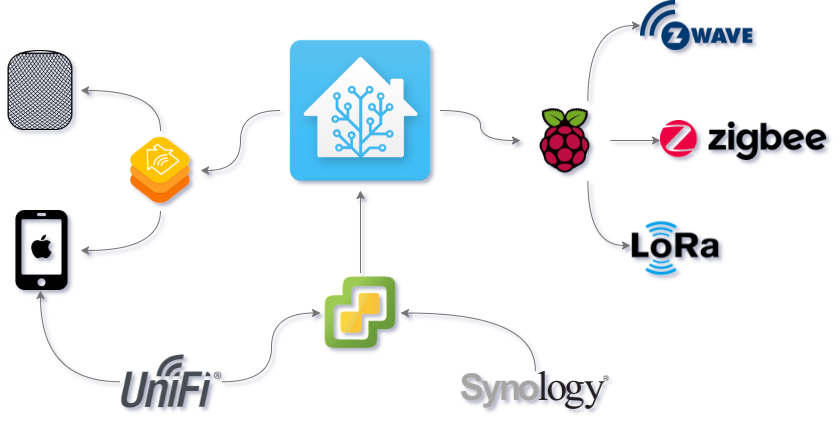
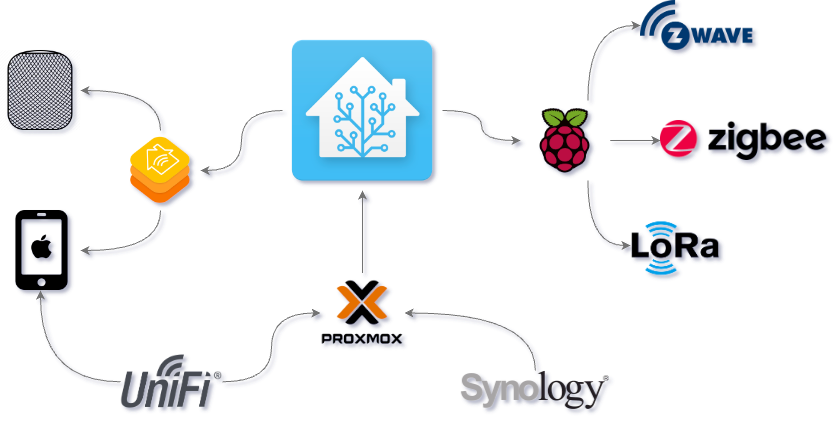
Documentation updates

diff --git a/docs/README.md b/docs/README.md
@@ -7,7 +7,6 @@
 [![GitHub Last Commit][last-commit-shield]][commits]
 
 [![GitHub Actions][actions-shield]][actions]
-[![Black Duck Security Risk][black-duck-shield]][black-duck]
 
 ![GitHub Stars][stars-shield]
 ![GitHub Watchers][watchers-shield]
@@ -39,6 +38,13 @@ This is done for multiple reasons:
 - Enable VMware to migrate the main HA VM across hosts within the cluster based upon load.
 - Place radios in a more central location with better reception.
 
+### Update 20230518
+
+This is pending a refresh. The following tasks are planned:
+
+- Migrate back to a VM. (However, I have converted all of my VMware hosts to Proxmox.)
+- Migrate radios to strategically placed Raspberry Pi's. (Host management is the issue there. I haven't figured out what OS or)
+
 ![My Home Assistant Architecture](images/conceptual_architecture.png)
 
 Instances are linked together using
@@ -69,15 +75,11 @@ This configuration controls a couple of significant features in my smart home.
 [forum-shield]: https://img.shields.io/badge/community-forum-brightgreen.svg
 [forum]: https://community.home-assistant.io/?u=Apocrathia
 [apocrathia]: https://github.com/Apocrathia
-[travis-shield]: https://travis-ci.org/Apocrathia/home-assistant-config.svg?branch=master
-[travis]: https://travis-ci.org/Apocrathia/home-assistant-config
 [home-assistant]: https://home-assistant.io
 [issue]: https://github.com/Apocrathia/home-assistant-config/issues
 [license-shield]: https://img.shields.io/badge/license-apache-brightgreen.svg
-[maintenance-shield]: https://img.shields.io/maintenance/yes/2021.svg
+[maintenance-shield]: https://img.shields.io/maintenance/yes/2023.svg
 [last-commit-shield]: https://img.shields.io/github/last-commit/Apocrathia/home-assistant-config.svg
 [stars-shield]: https://img.shields.io/github/stars/Apocrathia/home-assistant-config.svg?style=social&label=Stars
 [forks-shield]: https://img.shields.io/github/forks/Apocrathia/home-assistant-config.svg?style=social&label=Forks
 [watchers-shield]: https://img.shields.io/github/watchers/Apocrathia/home-assistant-config.svg?style=social&label=Watchers
-[black-duck-shield]: https://copilot.blackducksoftware.com/github/repos/Apocrathia/home-assistant-config/branches/master/badge-risk.svg
-[black-duck]: https://copilot.blackducksoftware.com/github/repos/Apocrathia/home-assistant-config/branches/master/
